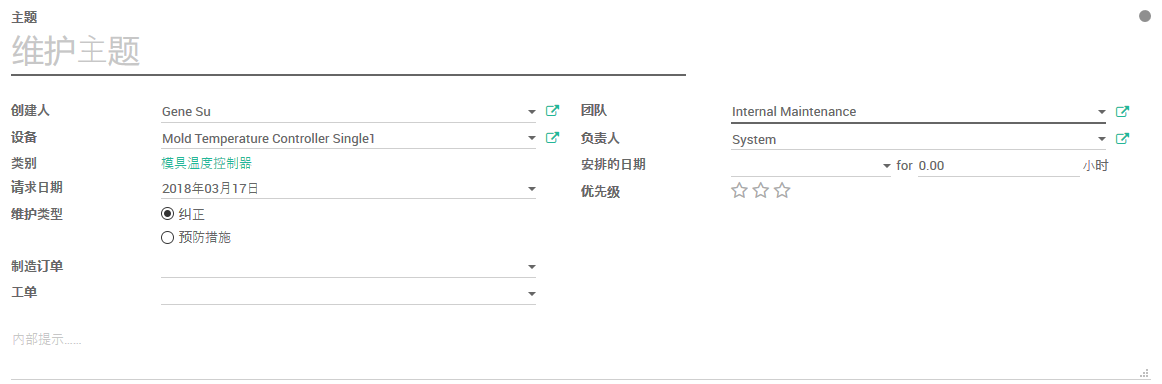
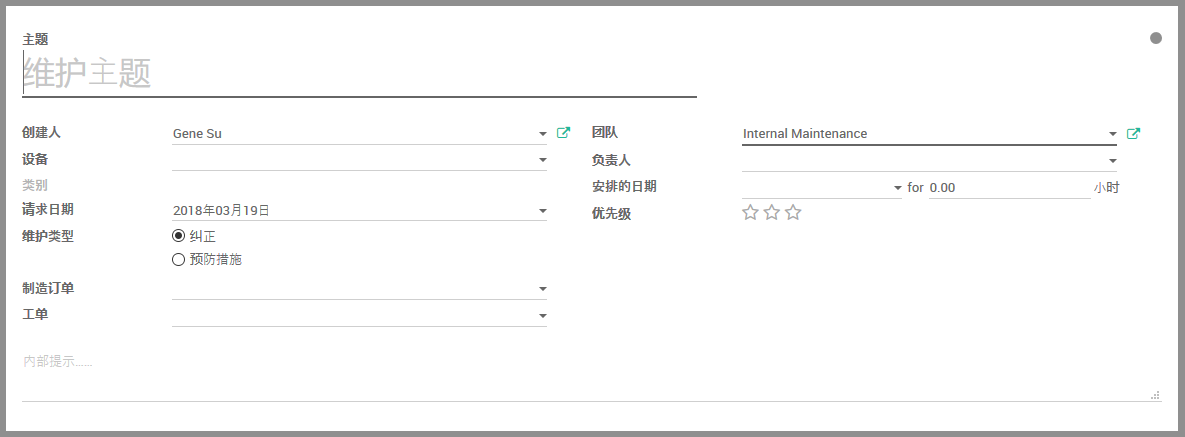
继续完善”维护“模块。

diff --git a/PLM/ECO.md b/PLM/ECO.md
@@ -16,9 +16,7 @@ Path: PLM module
 
 > from Moritz:
 >> New Product Introduction: 适用于未进入量产阶段的产品的工程变更
-
 >> Winding In production change orders: 适用于已量产的绕线产品的工程变更
-
 >> Plastic in Production change orders: 适用于已量产的注塑产品的工程变更
 
 (2). Click “CREATE”
@@ -26,7 +24,7 @@ Path: PLM module
 
 ![新建ECO](_images/ECO1.PNG)
 
-(3).	Give a meaningful name, and select the product this ECO for
+(3). Give a meaningful name, and select the product this ECO for
 输入一个有适当意义的名称，并选择工程变更的相应产品
 
 ![选择产品及BOM和工艺](_images/ECO2.PNG)
@@ -49,17 +47,17 @@ OR, Drag ECO board from “New” to “In Process” to start the flowing.
 
 ![开始规划变更](_images/ECO4.PNG)
 
-(5).	Click “START NEW REVISION”
+(5). Click “START NEW REVISION”
 点击“开启新版本”
 
 ![开启新版本](_images/ECO5.PNG)
 
-(6).	Click “Bill of Material Rev :x”
+(6). Click “Bill of Material Rev :x”
 点击“物料清单 版本 :x”
 
 ![打开新版BOM](_images/ECO6.PNG)
 
-(7).	Update the BOM
+(7). Update the BOM
 更新物料清单
 
 ![打开新版BOM](_images/ECO7.PNG)
@@ -67,17 +65,17 @@ OR, Drag ECO board from “New” to “In Process” to start the flowing.
 click 'Save'.
 点击‘保存’。
 
-(8).	Click current ECO to return
+(8). Click current ECO to return
 点击当前的ECO以返回
 
 ![返回ECO](_images/ECO8.PNG)
 
-(9).	Click “BOM CHANGES” to review what has changed
+(9). Click “BOM CHANGES” to review what has changed
 点击“BOM变更”以查看到底改了什么内容
 
 ![返回ECO](_images/ECO9.PNG)
 
-(10).	Drag ECO board from “In Process” to “Validated” for review
+(10). Drag ECO board from “In Process” to “Validated” for review
 将工程变更单从“在处理“拖动到”验证“以进入评审环节
 
 ![完成ECO规划](_images/ECO10.PNG)
@@ -97,5 +95,5 @@ Then move ECO to the next stage.
 
 ## Apply ECO
 
-(12).	Open ECO and click “APPLY CHANGES”
+(12). Open ECO and click “APPLY CHANGES”
 打开工程变更单并点击“应用变更”

diff --git a/Maintenance/Maintenance.md b/Maintenance/Maintenance.md
@@ -1,19 +1,47 @@
 # 维护
 
+在维护模块的仪表板，可以看到跟各`维护团队`有关的维护。
+
+![仪表板](_images/Maintenance5.PNG)
+
 通过点击设备页面的 _维护_ 按钮，可用查看该设备的维护记录。
 
 ![设备：维护](_images/equipment5.PNG)
 
 ![设备维护记录](_images/equipment6.PNG)
 
-在设备维修记录页面点击 _创建_ 可用创建 _维护申请_ ：
+## 维护日历
 
-![新建维护申请](_images/Maintenance4.PNG)
+路径：维护模块 -> 维护 -> 维护日历
 
-## 维护分为两种类型
+![维护日历](_images/Maintenance6.PNG)
+
+这里可以看到基于日期的简明的维护记录。
+
+## 维护类型
 
 * 预防性的保养，目的是保持设备运转，避免故障
 * 纠正性的维修，设备出现故障后的修复，以使其再次可用
+
+## 提出维护申请
+
+路径：维护模块 -> 维护 -> 维护申请
+
+![维护申请](_images/equipment8.PNG)
+
+点击 _创建_ 可用创建 _维护申请_ ：
+
+![新建维护申请](_images/Maintenance4.PNG)
+
+1. `维护主题` 填写维护申请的摘要
+2. `设备` 选择该申请的相关设备
+3. 选择正确的 `维护类型`
+4. 选择相关 `制造订单` (如果该申请发生于制造过程中)
+5. 选择相关 `工单` (如果该申请发生于制造过程中)
+6. 选择适当的 `负责人`
+7. 指定 `安排的日期` 及持续时间(`小时`)
+8. 根据需要可以指定 `优先级`
+9. 下部的 `内部提示` 可以放入详细说明及注意事项等
 
 ## 保养
 

diff --git a/README.md b/README.md
@@ -13,5 +13,6 @@
 ## [Glossary 术语表](glossary.md)
 
 ## 主要贡献者
+
 * [苏金柱](mailto:13686017469@163.com)
 * Amy
